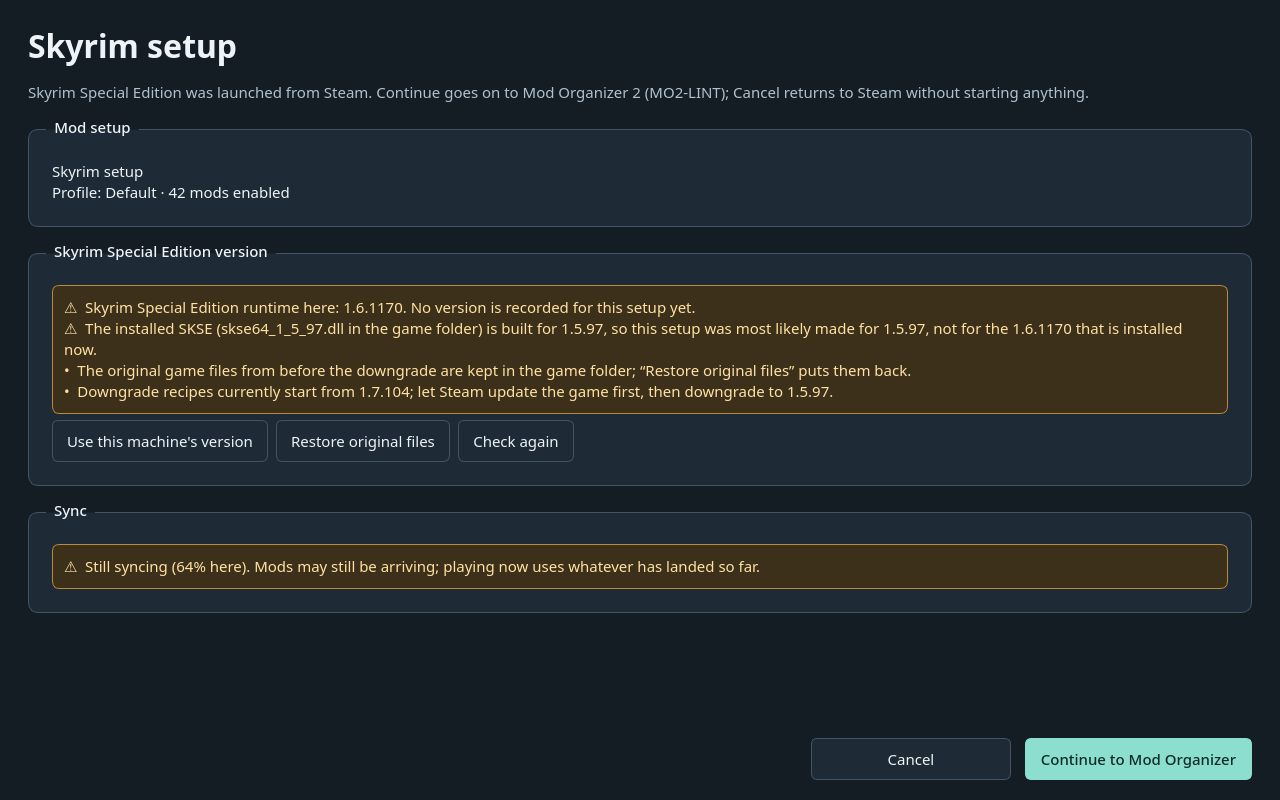
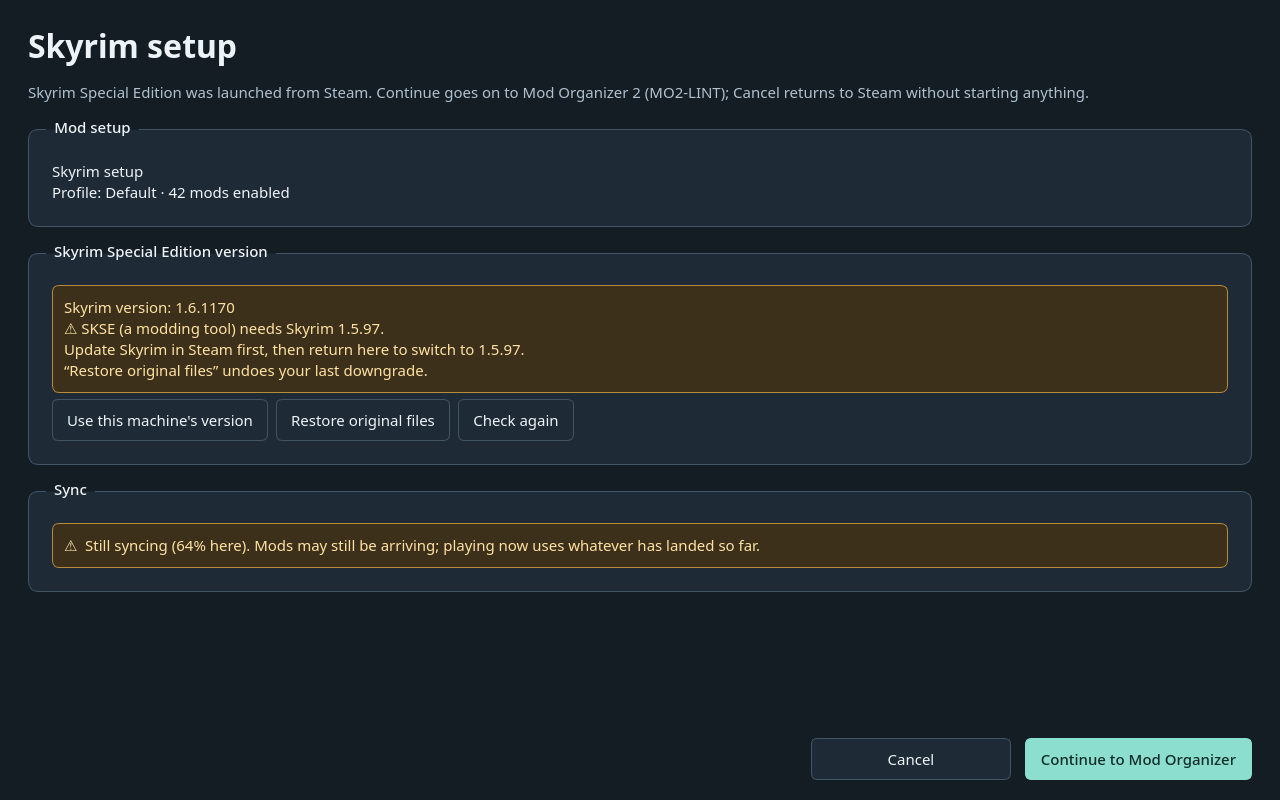
Simplify Skyrim version warnings and explain the next step

Changed region(s): [[0.0312, 0.375, 0.9688, 0.5625], [0.0312, 0.5938, 0.9688, 0.75]]

diff --git a/modsync/ui/game_card.py b/modsync/ui/game_card.py
@@ -145,61 +145,65 @@ class GameCard(QGroupBox):
     def _on_check_failed(self, message: str) -> None:
         self._refresh_btn.setEnabled(not self.busy)
         role(self._label, "warning")
-        self._label.setText(f"⚠ Version check failed: {message}")
+        self._label.setText("Couldn’t check Skyrim’s version. Try “Check again”.")
+        self._label.setToolTip(message)
 
     def _on_game_status(self, st: GameStatus) -> None:
         self._refresh_btn.setEnabled(not self.busy)
         self._game = st
-        vc = self.service.game_version_check()  # local and cheap; reuses the wording
+        vc = self.service.game_version_check()
         has_instance = self.service.state.has_instance
         lines = []
+        warning = False
         if vc.installed is None and st.game_dir is None:
-            lines.append(
-                f"•  {SKYRIM_SE.name} was not found through Steam on this machine. Install "
-                "it in Steam first."
-            )
-            role(self._label, "secondary")
-        elif not has_instance and vc.installed is not None:
-            # No setup to compare against yet: just report what is here.
-            lines.append(f"•  {SKYRIM_SE.name} runtime here: {vc.installed}.")
-            role(self._label, "secondary")
-        elif vc.mismatch or vc.skse_suggests:
-            lines.append(f"⚠  {vc.summary()}")
-            role(self._label, "warning")
-        elif vc.ok:
-            lines.append(f"✅  {vc.summary()}")
-            role(self._label, "secondary")
+            lines.append("Skyrim wasn't found. Install it through Steam first.")
+        elif vc.installed is None:
+            lines.append("Couldn't read Skyrim's version. Try “Check again”.")
+            warning = True
         else:
-            lines.append(f"•  {vc.summary()}")
-            role(self._label, "secondary")
-        note = vc.skse_note()
-        if note:
-            lines.append(f"{'⚠' if vc.skse_suggests else '•'}  {note}")
-        if st.needs_pin:
-            lines.append(
-                "⚠  Steam wants to update the game on its next launch. “Keep this version” "
-                "makes Steam treat the installed files as current."
-            )
-        if st.pending_pin:
-            lines.append("•  A pin is queued; it applies automatically the next time Steam is closed.")
-        if st.backup_present:
-            lines.append(
-                "•  The original game files from before the downgrade are kept in the game folder; "
-                "“Restore original files” puts them back."
-            )
-        if st.needs_downgrade and st.suggested_target is None and st.installed is not None and st.recipe_from:
-            if str(st.installed) != st.recipe_from:
-                lines.append(
-                    f"•  Downgrade recipes currently start from {st.recipe_from}; let Steam "
-                    f"update the game first, then downgrade to {st.wanted}."
-                )
+            lines.append(f"Skyrim version: {vc.installed}")
+            if st.steam_updating:
+                lines.append("Steam is updating Skyrim. Wait for it to finish, then check again.")
+            elif vc.mismatch:
+                lines.append(f"⚠ Your mod setup needs version {vc.expected}. Some mods may not work yet.")
+                warning = True
+            elif vc.skse_suggests:
+                lines.append(f"⚠ SKSE (a modding tool) needs Skyrim {vc.skse_suggests}.")
+                warning = True
+            elif vc.ok:
+                lines.append("Matches the version your mod setup needs.")
+
+            if not st.steam_updating and vc.skse.ambiguous:
+                lines.append("Multiple SKSE versions found. Keep only the one that matches your mod setup.")
+                warning = True
+            elif not st.steam_updating and vc.expected is not None and vc.skse.runtime is not None:
+                if vc.skse.runtime != vc.expected:
+                    lines.append(f"Install SKSE (a modding tool) for Skyrim {vc.expected} to match your mods.")
+                    warning = True
+
+        if st.suggested_target:
+            lines.append(f"Choose “Downgrade to {st.suggested_target}” below to switch versions.")
+        elif st.needs_downgrade:
+            if st.recipe_from and str(st.installed) != st.recipe_from and str(st.wanted) in st.recipe_targets:
+                lines.append(f"Update Skyrim in Steam first, then return here to switch to {st.wanted}.")
             else:
-                lines.append(f"•  No recipe reaches {st.wanted} yet (targets: {', '.join(st.recipe_targets)}).")
-        # Warnings can be appended after an otherwise healthy/unconfigured
-        # summary. Keep them readable in the active theme, including first run.
-        if vc.mismatch or vc.skse_suggests or st.needs_pin:
-            role(self._label, "warning")
+                lines.append(f"ModSync can't switch this install to {st.wanted} yet.")
+
+        if st.pending_pin:
+            lines.append("Close Steam to apply “Keep this version”.")
+        elif st.needs_pin:
+            lines.append("Steam has an update ready. Choose “Keep this version” to stay on this version.")
+            warning = True
+        if st.backup_present:
+            lines.append("“Restore original files” undoes your last downgrade.")
+
+        role(self._label, "warning" if warning else "secondary")
         self._label.setText("\n".join(lines))
+        # Keep provenance and DLL details available without filling the card.
+        details = [vc.summary(), vc.skse_note()]
+        if st.recipe_from:
+            details.append(f"Available downgrade patches start from Skyrim {st.recipe_from}.")
+        self._label.setToolTip("\n".join(detail for detail in details if detail))
         # Offer to (re)record only when there is a setup to record into and it
         # would change what the record says.
         self._adopt.setVisible(

diff --git a/tests/test_ui_smoke.py b/tests/test_ui_smoke.py
@@ -86,7 +86,7 @@ class DashboardSmokeTests(_SmokeBase):
     def test_nothing_set_up(self):
         dash = self._build()
         self.assertFalse(dash.sync.live)
-        self.assertIn("runtime here: 1.7.104", dash.game._label.text())
+        self.assertIn("Skyrim version: 1.7.104", dash.game._label.text())
         self.assertIn("Steam launch: off", dash._hook_status.text())
         self.assertIn("Open ModSync before Skyrim", dash._hook_button.text())
 
@@ -112,10 +112,10 @@ class DashboardSmokeTests(_SmokeBase):
         status = fake_game_status(service)
         status.steam_is_current = False
         card._on_game_status(status)
-        self.assertIn("Steam wants to update", card._label.text())
+        self.assertIn("Steam has an update ready", card._label.text())
         self.assertEqual(card._label.property("role"), "warning")
         card._on_game_status(fake_game_status(service))
-        self.assertNotIn("Steam wants to update", card._label.text())
+        self.assertNotIn("Steam has an update ready", card._label.text())
         self.assertEqual(card._label.property("role"), "secondary")
 
     def test_instance_only(self):
@@ -412,3 +412,54 @@ class UiNavigationTests(_SmokeBase):
             self.assertIsInstance(window._stack.currentWidget(), Dashboard)
             QThreadPool.globalInstance().waitForDone(5000)
             self.app.processEvents()
+
+
+class GameWarningCopyTests(_SmokeBase):
+    def _card(self):
+        from modsync.ui.game_card import GameCard
+
+        service = ModSyncService(manager=object())
+        card = GameCard(service)
+        QThreadPool.globalInstance().waitForDone(5000)
+        self.app.processEvents()
+        return service, card
+
+    def test_skse_warning_is_short_and_keeps_technical_details_in_tooltip(self):
+        service, card = self._card()
+        version = gameversion.GameVersion.parse
+        status = fake_game_status(service)
+        status.installed = version("1.6.1170")
+        status.skse_runtime = version("1.5.97")
+        status.recipe_targets = ["1.5.97"]
+        status.backup_present = True
+        check = gameversion.VersionCheck(status.installed, None, skse=gameversion.SkseCheck([
+            gameversion.SkseFile(Path("skse64_1_5_97.dll"), status.skse_runtime, "game folder")
+        ]))
+        with patch.object(service, "game_version_check", return_value=check):
+            card._on_game_status(status)
+        text = card._label.text()
+        self.assertIn("SKSE (a modding tool) needs Skyrim 1.5.97", text)
+        self.assertIn("Update Skyrim in Steam first", text)
+        self.assertIn("Restore original files", text)
+        self.assertNotIn(".dll", text)
+        self.assertNotIn("runtime", text)
+        self.assertLess(len(text.split()), 50)
+        self.assertIn("skse64_1_5_97.dll", card._label.toolTip())
+
+    def test_unsupported_target_and_active_update_do_not_suggest_updating_to_downgrade(self):
+        service, card = self._card()
+        version = gameversion.GameVersion.parse
+        status = fake_game_status(service)
+        status.installed = version("1.6.1170")
+        status.expected = version("1.5.97")
+        # The available patch does not reach the requested version.
+        check = gameversion.VersionCheck(status.installed, status.expected)
+        with patch.object(service, "game_version_check", return_value=check):
+            card._on_game_status(status)
+            self.assertIn("can't switch this install to 1.5.97 yet", card._label.text())
+            self.assertNotIn("Update Skyrim in Steam first", card._label.text())
+            status.steam_updating = True
+            card._on_game_status(status)
+            self.assertIn("Wait for it to finish", card._label.text())
+            self.assertNotIn("Some mods may not work", card._label.text())
+            self.assertNotIn("return here to switch", card._label.text())

diff --git a/CHANGELOG.md b/CHANGELOG.md
@@ -10,6 +10,9 @@ Early development; nothing has been released yet. What exists so far:
 
 ### Changed
 
+- Shorten Skyrim version warnings, explain SKSE, and show the next action in
+  plain language. Keep technical version details in a tooltip.
+
 - Refresh the dashboard, setup wizard and launch hub with shared light/dark
   styling, readable secondary text, larger controls, visible keyboard focus
   and padded warnings. Replace all uses of Qt's border color for text.

diff --git a/docs/ui-review/README.md b/docs/ui-review/README.md
@@ -6,6 +6,9 @@ when generating them.
 
 ## What changed
 
+- Shorten Skyrim version warnings to the problem and next step, explain SKSE,
+  and move DLL/patch details into a tooltip.
+
 - Replace every text use of Qt's `Mid` border/shading color with a shared,
   readable secondary text color. Light and dark themes follow the system setting.
 - Increase the base text size (while retaining larger user font settings), give
